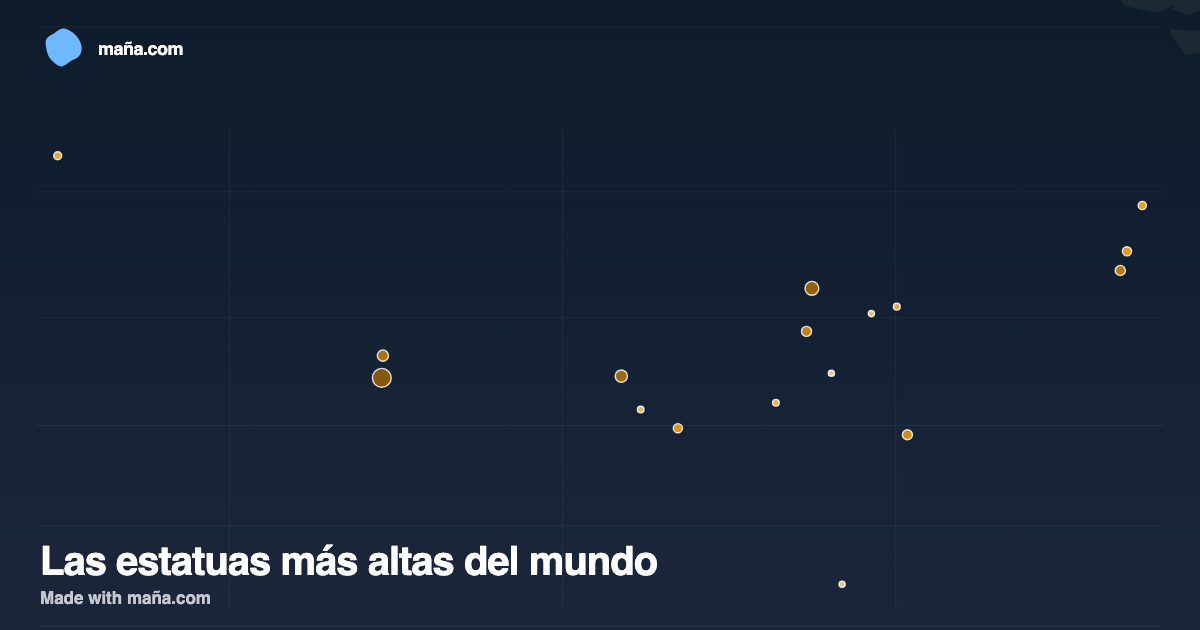
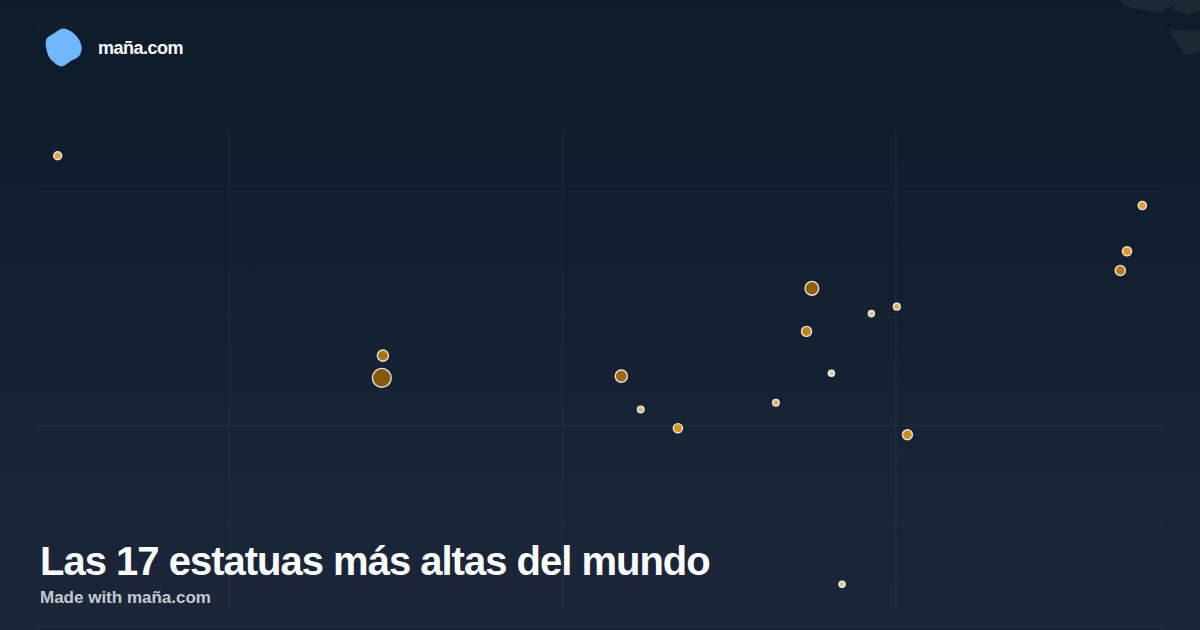
chore: generar landings estaticas y OG cards de mapas

Changed region(s): [[0.0308, 0.8444, 0.6167, 0.9651], [0.0617, 0.0603, 0.1542, 0.0905]]

diff --git a/site/gallery/tallest-statues-world/index.html b/site/gallery/tallest-statues-world/index.html
@@ -3,21 +3,21 @@
 <head>
 <meta charset="utf-8">
 <meta name="viewport" content="width=device-width, initial-scale=1">
-<title>Las estatuas más altas del mundo — Maña Maps</title>
-<meta name="description" content="Las estatuas más altas del mundo: 16 están en Asia y la mayor, la Estatua de la Unidad (182 m), casi duplica a la Estatua de la Libertad.">
+<title>Las 17 estatuas más altas del mundo — Maña Maps</title>
+<meta name="description" content="Las 17 estatuas más altas del mundo: 16 están en Asia y la mayor, la Estatua de la Unidad (182 m), casi duplica a la Estatua de la Libertad.">
 <link rel="canonical" href="https://maña.com/gallery/tallest-statues-world/">
 <meta property="og:type" content="article">
 <meta property="og:url" content="https://maña.com/gallery/tallest-statues-world/">
-<meta property="og:title" content="Las estatuas más altas del mundo">
-<meta property="og:description" content="Las estatuas más altas del mundo: 16 están en Asia y la mayor, la Estatua de la Unidad (182 m), casi duplica a la Estatua de la Libertad.">
+<meta property="og:title" content="Las 17 estatuas más altas del mundo">
+<meta property="og:description" content="Las 17 estatuas más altas del mundo: 16 están en Asia y la mayor, la Estatua de la Unidad (182 m), casi duplica a la Estatua de la Libertad.">
 <meta property="og:image" content="https://maña.com/og-cards/tallest-statues-world.png">
 <meta property="og:image:width" content="1200">
 <meta property="og:image:height" content="630">
 <meta property="og:locale" content="es_ES">
 <meta property="og:site_name" content="Maña Maps">
 <meta name="twitter:card" content="summary_large_image">
-<meta name="twitter:title" content="Las estatuas más altas del mundo">
-<meta name="twitter:description" content="Las estatuas más altas del mundo: 16 están en Asia y la mayor, la Estatua de la Unidad (182 m), casi duplica a la Estatua de la Libertad.">
+<meta name="twitter:title" content="Las 17 estatuas más altas del mundo">
+<meta name="twitter:description" content="Las 17 estatuas más altas del mundo: 16 están en Asia y la mayor, la Estatua de la Unidad (182 m), casi duplica a la Estatua de la Libertad.">
 <meta name="twitter:image" content="https://maña.com/og-cards/tallest-statues-world.png">
 <meta name="robots" content="index, follow">
 <link rel="preconnect" href="https://fonts.googleapis.com">
@@ -25,7 +25,7 @@
 <link rel="stylesheet" href="https://fonts.googleapis.com/css2?family=DM+Sans:wght@400;500;600;700;800;900&display=swap">
 <link rel="stylesheet" href="/css/site-footer.css">
 <style>:root{--overscroll-bg:#fff}@media (prefers-color-scheme: dark){:root{--overscroll-bg:#0b0f14}}</style>
-<script type="application/ld+json">{"@context":"https://schema.org","@type":"Dataset","name":"Las estatuas más altas del mundo","description":"Las estatuas más altas del mundo: 16 están en Asia y la mayor, la Estatua de la Unidad (182 m), casi duplica a la Estatua de la Libertad.","url":"https://maña.com/gallery/tallest-statues-world/","spatialCoverage":{"@type":"Place","name":"Mundo"},"creator":{"@type":"Organization","name":"Maña Maps","url":"https://maña.com"},"source":"Wikipedia — List of tallest statues (consultado 30-10-2026), con datos de Guinness World Records y fichas oficiales de cada monumento. · 2026-10-30","dateModified":"2026-11-05","keywords":["Cultura","Arquitectura","Geografía"]}</script>
+<script type="application/ld+json">{"@context":"https://schema.org","@type":"Dataset","name":"Las 17 estatuas más altas del mundo","description":"Las 17 estatuas más altas del mundo: 16 están en Asia y la mayor, la Estatua de la Unidad (182 m), casi duplica a la Estatua de la Libertad.","url":"https://maña.com/gallery/tallest-statues-world/","spatialCoverage":{"@type":"Place","name":"Mundo"},"creator":{"@type":"Organization","name":"Maña Maps","url":"https://maña.com"},"source":"Wikipedia — List of tallest statues (consultado 30-10-2026), con datos de Guinness World Records y fichas oficiales de cada monumento. · 2026-10-30","dateModified":"2026-11-05","keywords":["Cultura","Arquitectura","Geografía"]}</script>
 <style>
   :root{--sky:#0ea5e9;--ink:#111827;--muted:#6b7280;--line:#e5e7eb}
   *{box-sizing:border-box}
@@ -66,7 +66,7 @@
   @media (prefers-color-scheme: dark){:root{--ink:#f3f4f6;--muted:#9ca3af;--line:#374151}body{background:#0b0f14}.source{background:#111827}.facts{background:#111827}.btn-ghost{background:#111827;color:var(--ink)}}
 </style>
 <link rel="stylesheet" href="/css/site-navbar.css">
-  <link rel="stylesheet" href="/css/public-theme.css">
+<link rel="stylesheet" href="/css/public-theme.css">
 </head>
 <body class="public-landing">
   <header class="site-navbar">
@@ -92,14 +92,14 @@
     </div>
   </header>
   <main class="wrap">
-    <h1>Las estatuas más altas del mundo</h1>
-    <p class="lede">Las estatuas más altas del mundo: 16 están en Asia y la mayor, la Estatua de la Unidad (182 m), casi duplica a la Estatua de la Libertad.</p>
-    <a class="shot" href="/gallery/?slug=tallest-statues-world"><img src="/og-cards/tallest-statues-world.png" alt="Las estatuas más altas del mundo" width="1200" height="630"></a>
+    <h1>Las 17 estatuas más altas del mundo</h1>
+    <p class="lede">Las 17 estatuas más altas del mundo: 16 están en Asia y la mayor, la Estatua de la Unidad (182 m), casi duplica a la Estatua de la Libertad.</p>
+    <a class="shot" href="/gallery/?slug=tallest-statues-world"><img src="/og-cards/tallest-statues-world.png" alt="Las 17 estatuas más altas del mundo" width="1200" height="630"></a>
     <p class="meta">17 elementos · 2026-11-05</p>
     <div class="cta">
       <a class="btn btn-primary" href="/map/" onclick="if(window.trackEvent)window.trackEvent('cta_click',{target:'create_map',source:'static_map'})">Crea tu mapa gratis</a>
       <a class="btn btn-ghost" href="/gallery/?slug=tallest-statues-world" onclick="if(window.trackEvent)window.trackEvent('cta_click',{target:'interactive',source:'static_map'})">Abrir mapa interactivo</a>
-      <a class="btn btn-ghost" href="https://twitter.com/intent/tweet?text=Las%20estatuas%20m%C3%A1s%20altas%20del%20mundo%20%E2%80%94%20v%C3%ADa%20Ma%C3%B1a%20Maps&url=https%3A%2F%2Fma%C3%B1a.com%2Fgallery%2Ftallest-statues-world%2F" target="_blank" rel="noopener" onclick="if(window.trackEvent)window.trackEvent('share',{network:'x',source:'static_map'})">Compartir en X</a>
+      <a class="btn btn-ghost" href="https://twitter.com/intent/tweet?text=Las%2017%20estatuas%20m%C3%A1s%20altas%20del%20mundo%20%E2%80%94%20v%C3%ADa%20Ma%C3%B1a%20Maps&url=https%3A%2F%2Fma%C3%B1a.com%2Fgallery%2Ftallest-statues-world%2F" target="_blank" rel="noopener" onclick="if(window.trackEvent)window.trackEvent('share',{network:'x',source:'static_map'})">Compartir en X</a>
     </div>
     <div class="source"><strong>Fuente de datos:</strong> Wikipedia — List of tallest statues (consultado 30-10-2026), con datos de Guinness World Records y fichas oficiales de cada monumento. · 2026-10-30</div>
     <section class="facts" aria-labelledby="datos-clave">
@@ -137,7 +137,7 @@
           <a href="/changelog/" data-i18n="footer_changelog">Changelog</a>
           <a href="/open/" data-i18n="footer_stats">Estadísticas</a>
           <a href="/map/?tutorial=1">Tutorial</a>
-        <a href="/tasks/" data-i18n="footer_tasks">Tareas</a></div>
+        </div>
       </section>
       <section class="site-footer__group site-footer__group--wide">
         <h2 data-i18n="footer_company">Compañía</h2>

diff --git a/site/gallery/linea-ave-madrid-sevilla-urda/index.html b/site/gallery/linea-ave-madrid-sevilla-urda/index.html
@@ -66,7 +66,7 @@
   @media (prefers-color-scheme: dark){:root{--ink:#f3f4f6;--muted:#9ca3af;--line:#374151}body{background:#0b0f14}.source{background:#111827}.facts{background:#111827}.btn-ghost{background:#111827;color:var(--ink)}}
 </style>
 <link rel="stylesheet" href="/css/site-navbar.css">
-  <link rel="stylesheet" href="/css/public-theme.css">
+<link rel="stylesheet" href="/css/public-theme.css">
 </head>
 <body class="public-landing">
   <header class="site-navbar">
@@ -102,7 +102,7 @@
       <a class="btn btn-ghost" href="https://twitter.com/intent/tweet?text=La%20l%C3%ADnea%20de%20alta%20velocidad%20Madrid-Sevilla%20y%20el%20accidente%20de%20Urda%20%E2%80%94%20v%C3%ADa%20Ma%C3%B1a%20Maps&url=https%3A%2F%2Fma%C3%B1a.com%2Fgallery%2Flinea-ave-madrid-sevilla-urda%2F" target="_blank" rel="noopener" onclick="if(window.trackEvent)window.trackEvent('share',{network:'x',source:'static_map'})">Compartir en X</a>
     </div>
     <div class="source"><strong>Fuente de datos:</strong> OpenStreetMap contributors: relación 1254828 «AVE Madrid - Sevilla» (route=train, service=high_speed), consultada el 29 de octubre de 2026; geometría de la vía y distancia acumulada calculadas sobre la relación. Datos del accidente: Ministerio de Transportes, Gobierno de Castilla-La Mancha y RTVE (28-29 de octubre de 2026). · 2026-10-29</div>
-    <section class="related"><h2>Más mapas</h2><ul><li><a href="/gallery/busiest-ports-world/">Los puertos más transitados del mundo</a></li><li><a href="/gallery/airports-world/">Los aeropuertos más transitados del mundo</a></li><li><a href="/gallery/largest-hydro-dams-world/">Las presas hidroeléctricas más potentes del mundo</a></li><li><a href="/gallery/tallest-statues-world/">Las estatuas más altas del mundo</a></li></ul></section>
+    <section class="related"><h2>Más mapas</h2><ul><li><a href="/gallery/busiest-ports-world/">Los puertos más transitados del mundo</a></li><li><a href="/gallery/airports-world/">Los aeropuertos más transitados del mundo</a></li><li><a href="/gallery/largest-hydro-dams-world/">Las presas hidroeléctricas más potentes del mundo</a></li><li><a href="/gallery/tallest-statues-world/">Las 17 estatuas más altas del mundo</a></li></ul></section>
   </main>
   <footer class="site-footer" aria-label="Pie de página"><div class="site-footer__inner">
     <div class="site-footer__lead">
@@ -129,7 +129,7 @@
           <a href="/changelog/" data-i18n="footer_changelog">Changelog</a>
           <a href="/open/" data-i18n="footer_stats">Estadísticas</a>
           <a href="/map/?tutorial=1">Tutorial</a>
-        <a href="/tasks/" data-i18n="footer_tasks">Tareas</a></div>
+        </div>
       </section>
       <section class="site-footer__group site-footer__group--wide">
         <h2 data-i18n="footer_company">Compañía</h2>

diff --git a/site/gallery/most-visited-museums-world/index.html b/site/gallery/most-visited-museums-world/index.html
@@ -66,7 +66,7 @@
   @media (prefers-color-scheme: dark){:root{--ink:#f3f4f6;--muted:#9ca3af;--line:#374151}body{background:#0b0f14}.source{background:#111827}.facts{background:#111827}.btn-ghost{background:#111827;color:var(--ink)}}
 </style>
 <link rel="stylesheet" href="/css/site-navbar.css">
-  <link rel="stylesheet" href="/css/public-theme.css">
+<link rel="stylesheet" href="/css/public-theme.css">
 </head>
 <body class="public-landing">
   <header class="site-navbar">
@@ -110,7 +110,7 @@
         <div class="facts-col"><h3>Valores más bajos</h3><ol><li><span class="facts-name">Museos Reales de Greenwich</span><span class="facts-value">2.255.753</span></li><li><span class="facts-name">Museo Nacional de Escocia</span><span class="facts-value">2.314.974</span></li><li><span class="facts-name">Galería de Arte de Nueva Gales del Sur</span><span class="facts-value">2.369.339</span></li></ol></div>
       </div>
     </section>
-    <section class="related"><h2>Más mapas</h2><ul><li><a href="/gallery/tourism-arrivals-world/">Países que más reciben turistas internacionales</a></li><li><a href="/gallery/tallest-statues-world/">Las estatuas más altas del mundo</a></li><li><a href="/gallery/bibliotecas-barcelona/">Bibliotecas públicas de Barcelona</a></li><li><a href="/gallery/patrimonio-unesco-por-pais/">Sitios patrimonio de la humanidad UNESCO por país</a></li></ul></section>
+    <section class="related"><h2>Más mapas</h2><ul><li><a href="/gallery/tourism-arrivals-world/">Países que más reciben turistas internacionales</a></li><li><a href="/gallery/tallest-statues-world/">Las 17 estatuas más altas del mundo</a></li><li><a href="/gallery/bibliotecas-barcelona/">Bibliotecas públicas de Barcelona</a></li><li><a href="/gallery/patrimonio-unesco-por-pais/">Sitios patrimonio de la humanidad UNESCO por país</a></li></ul></section>
   </main>
   <footer class="site-footer" aria-label="Pie de página"><div class="site-footer__inner">
     <div class="site-footer__lead">
@@ -137,7 +137,7 @@
           <a href="/changelog/" data-i18n="footer_changelog">Changelog</a>
           <a href="/open/" data-i18n="footer_stats">Estadísticas</a>
           <a href="/map/?tutorial=1">Tutorial</a>
-        <a href="/tasks/" data-i18n="footer_tasks">Tareas</a></div>
+        </div>
       </section>
       <section class="site-footer__group site-footer__group--wide">
         <h2 data-i18n="footer_company">Compañía</h2>

diff --git a/site/gallery/tallest-skyscrapers-world/index.html b/site/gallery/tallest-skyscrapers-world/index.html
@@ -66,7 +66,7 @@
   @media (prefers-color-scheme: dark){:root{--ink:#f3f4f6;--muted:#9ca3af;--line:#374151}body{background:#0b0f14}.source{background:#111827}.facts{background:#111827}.btn-ghost{background:#111827;color:var(--ink)}}
 </style>
 <link rel="stylesheet" href="/css/site-navbar.css">
-  <link rel="stylesheet" href="/css/public-theme.css">
+<link rel="stylesheet" href="/css/public-theme.css">
 </head>
 <body class="public-landing">
   <header class="site-navbar">
@@ -110,7 +110,7 @@
         <div class="facts-col"><h3>Valores más bajos</h3><ol><li><span class="facts-name">Plaza CITIC</span><span class="facts-value">390,2 m</span></li><li><span class="facts-name">23 Marina</span><span class="facts-value">392,4 m</span></li><li><span class="facts-name">Torre China Resources</span><span class="facts-value">392,5 m</span></li></ol></div>
       </div>
     </section>
-    <section class="related"><h2>Más mapas</h2><ul><li><a href="/gallery/tallest-statues-world/">Las estatuas más altas del mundo</a></li><li><a href="/gallery/largest-hydro-dams-world/">Las presas hidroeléctricas más potentes del mundo</a></li><li><a href="/gallery/nuclear-reactors-world/">Los reactores nucleares del mundo</a></li><li><a href="/gallery/alcohol-consumption-world/">Consumo de alcohol per cápita por país</a></li></ul></section>
+    <section class="related"><h2>Más mapas</h2><ul><li><a href="/gallery/tallest-statues-world/">Las 17 estatuas más altas del mundo</a></li><li><a href="/gallery/largest-hydro-dams-world/">Las presas hidroeléctricas más potentes del mundo</a></li><li><a href="/gallery/nuclear-reactors-world/">Los reactores nucleares del mundo</a></li><li><a href="/gallery/alcohol-consumption-world/">Consumo de alcohol per cápita por país</a></li></ul></section>
   </main>
   <footer class="site-footer" aria-label="Pie de página"><div class="site-footer__inner">
     <div class="site-footer__lead">
@@ -137,7 +137,7 @@
           <a href="/changelog/" data-i18n="footer_changelog">Changelog</a>
           <a href="/open/" data-i18n="footer_stats">Estadísticas</a>
           <a href="/map/?tutorial=1">Tutorial</a>
-        <a href="/tasks/" data-i18n="footer_tasks">Tareas</a></div>
+        </div>
       </section>
       <section class="site-footer__group site-footer__group--wide">
         <h2 data-i18n="footer_company">Compañía</h2>

diff --git a/site/gallery/rainy-days-by-city-world/index.html b/site/gallery/rainy-days-by-city-world/index.html
@@ -66,7 +66,7 @@
   @media (prefers-color-scheme: dark){:root{--ink:#f3f4f6;--muted:#9ca3af;--line:#374151}body{background:#0b0f14}.source{background:#111827}.facts{background:#111827}.btn-ghost{background:#111827;color:var(--ink)}}
 </style>
 <link rel="stylesheet" href="/css/site-navbar.css">
-  <link rel="stylesheet" href="/css/public-theme.css">
+<link rel="stylesheet" href="/css/public-theme.css">
 </head>
 <body class="public-landing">
   <header class="site-navbar">
@@ -110,7 +110,7 @@
         <div class="facts-col"><h3>Valores más bajos</h3><ol><li><span class="facts-name">Yeda</span><span class="facts-value">5,4 media 1991–2020</span></li><li><span class="facts-name">El Cairo</span><span class="facts-value">10,9 media 1991–2020</span></li><li><span class="facts-name">Jartum</span><span class="facts-value">12,3 media 1991–2020</span></li></ol></div>
       </div>
     </section>
-    <section class="related"><h2>Más mapas</h2><ul><li><a href="/gallery/co2-per-capita-world/">Emisiones de CO2 per cápita por país</a></li><li><a href="/gallery/major-deserts-world/">Principales desiertos del mundo</a></li><li><a href="/gallery/largest-hydro-dams-world/">Las presas hidroeléctricas más potentes del mundo</a></li><li><a href="/gallery/tallest-statues-world/">Las estatuas más altas del mundo</a></li></ul></section>
+    <section class="related"><h2>Más mapas</h2><ul><li><a href="/gallery/co2-per-capita-world/">Emisiones de CO2 per cápita por país</a></li><li><a href="/gallery/major-deserts-world/">Principales desiertos del mundo</a></li><li><a href="/gallery/largest-hydro-dams-world/">Las presas hidroeléctricas más potentes del mundo</a></li><li><a href="/gallery/tallest-statues-world/">Las 17 estatuas más altas del mundo</a></li></ul></section>
   </main>
   <footer class="site-footer" aria-label="Pie de página"><div class="site-footer__inner">
     <div class="site-footer__lead">
@@ -137,7 +137,7 @@
           <a href="/changelog/" data-i18n="footer_changelog">Changelog</a>
           <a href="/open/" data-i18n="footer_stats">Estadísticas</a>
           <a href="/map/?tutorial=1">Tutorial</a>
-        <a href="/tasks/" data-i18n="footer_tasks">Tareas</a></div>
+        </div>
       </section>
       <section class="site-footer__group site-footer__group--wide">
         <h2 data-i18n="footer_company">Compañía</h2>

diff --git a/site/gallery/olympic-medals-world/index.html b/site/gallery/olympic-medals-world/index.html
@@ -66,7 +66,7 @@
   @media (prefers-color-scheme: dark){:root{--ink:#f3f4f6;--muted:#9ca3af;--line:#374151}body{background:#0b0f14}.source{background:#111827}.facts{background:#111827}.btn-ghost{background:#111827;color:var(--ink)}}
 </style>
 <link rel="stylesheet" href="/css/site-navbar.css">
-  <link rel="stylesheet" href="/css/public-theme.css">
+<link rel="stylesheet" href="/css/public-theme.css">
 </head>
 <body class="public-landing">
   <header class="site-navbar">
@@ -110,7 +110,7 @@
         <div class="facts-col"><h3>Valores más bajos</h3><ol><li><span class="facts-name">Andorra</span><span class="facts-value">0</span></li><li><span class="facts-name">Angola</span><span class="facts-value">0</span></li><li><span class="facts-name">Antigua y Barbuda</span><span class="facts-value">0</span></li></ol></div>
       </div>
     </section>
-    <section class="related"><h2>Más mapas</h2><ul><li><a href="/gallery/largest-hydro-dams-world/">Las presas hidroeléctricas más potentes del mundo</a></li><li><a href="/gallery/tallest-statues-world/">Las estatuas más altas del mundo</a></li><li><a href="/gallery/nuclear-reactors-world/">Los reactores nucleares del mundo</a></li><li><a href="/gallery/alcohol-consumption-world/">Consumo de alcohol per cápita por país</a></li></ul></section>
+    <section class="related"><h2>Más mapas</h2><ul><li><a href="/gallery/largest-hydro-dams-world/">Las presas hidroeléctricas más potentes del mundo</a></li><li><a href="/gallery/tallest-statues-world/">Las 17 estatuas más altas del mundo</a></li><li><a href="/gallery/nuclear-reactors-world/">Los reactores nucleares del mundo</a></li><li><a href="/gallery/alcohol-consumption-world/">Consumo de alcohol per cápita por país</a></li></ul></section>
   </main>
   <footer class="site-footer" aria-label="Pie de página"><div class="site-footer__inner">
     <div class="site-footer__lead">
@@ -137,7 +137,7 @@
           <a href="/changelog/" data-i18n="footer_changelog">Changelog</a>
           <a href="/open/" data-i18n="footer_stats">Estadísticas</a>
           <a href="/map/?tutorial=1">Tutorial</a>
-        <a href="/tasks/" data-i18n="footer_tasks">Tareas</a></div>
+        </div>
       </section>
       <section class="site-footer__group site-footer__group--wide">
         <h2 data-i18n="footer_company">Compañía</h2>

diff --git a/site/gallery/bibliotecas-barcelona/index.html b/site/gallery/bibliotecas-barcelona/index.html
@@ -66,7 +66,7 @@
   @media (prefers-color-scheme: dark){:root{--ink:#f3f4f6;--muted:#9ca3af;--line:#374151}body{background:#0b0f14}.source{background:#111827}.facts{background:#111827}.btn-ghost{background:#111827;color:var(--ink)}}
 </style>
 <link rel="stylesheet" href="/css/site-navbar.css">
-  <link rel="stylesheet" href="/css/public-theme.css">
+<link rel="stylesheet" href="/css/public-theme.css">
 </head>
 <body class="public-landing">
   <header class="site-navbar">
@@ -110,7 +110,7 @@
         <div class="facts-col"><h3>Valores más bajos</h3><ol><li><span class="facts-name">Les Corts</span><span class="facts-value">2</span></li><li><span class="facts-name">Gràcia</span><span class="facts-value">3</span></li><li><span class="facts-name">Sants-Montjuïc</span><span class="facts-value">3</span></li></ol></div>
       </div>
     </section>
-    <section class="related"><h2>Más mapas</h2><ul><li><a href="/gallery/literacy-rate-world/">Alfabetización mundial por país</a></li><li><a href="/gallery/tallest-statues-world/">Las estatuas más altas del mundo</a></li><li><a href="/gallery/most-visited-museums-world/">Los museos más visitados del mundo</a></li><li><a href="/gallery/patrimonio-unesco-por-pais/">Sitios patrimonio de la humanidad UNESCO por país</a></li></ul></section>
+    <section class="related"><h2>Más mapas</h2><ul><li><a href="/gallery/literacy-rate-world/">Alfabetización mundial por país</a></li><li><a href="/gallery/tallest-statues-world/">Las 17 estatuas más altas del mundo</a></li><li><a href="/gallery/most-visited-museums-world/">Los museos más visitados del mundo</a></li><li><a href="/gallery/patrimonio-unesco-por-pais/">Sitios patrimonio de la humanidad UNESCO por país</a></li></ul></section>
   </main>
   <footer class="site-footer" aria-label="Pie de página"><div class="site-footer__inner">
     <div class="site-footer__lead">
@@ -137,7 +137,7 @@
           <a href="/changelog/" data-i18n="footer_changelog">Changelog</a>
           <a href="/open/" data-i18n="footer_stats">Estadísticas</a>
           <a href="/map/?tutorial=1">Tutorial</a>
-        <a href="/tasks/" data-i18n="footer_tasks">Tareas</a></div>
+        </div>
       </section>
       <section class="site-footer__group site-footer__group--wide">
         <h2 data-i18n="footer_company">Compañía</h2>

diff --git a/site/gallery/patrimonio-unesco-por-pais/index.html b/site/gallery/patrimonio-unesco-por-pais/index.html
@@ -66,7 +66,7 @@
   @media (prefers-color-scheme: dark){:root{--ink:#f3f4f6;--muted:#9ca3af;--line:#374151}body{background:#0b0f14}.source{background:#111827}.facts{background:#111827}.btn-ghost{background:#111827;color:var(--ink)}}
 </style>
 <link rel="stylesheet" href="/css/site-navbar.css">
-  <link rel="stylesheet" href="/css/public-theme.css">
+<link rel="stylesheet" href="/css/public-theme.css">
 </head>
 <body class="public-landing">
   <header class="site-navbar">
@@ -110,7 +110,7 @@
         <div class="facts-col"><h3>Valores más bajos</h3><ol><li><span class="facts-name">Bahamas</span><span class="facts-value">0</span></li><li><span class="facts-name">Brunéi</span><span class="facts-value">0</span></li><li><span class="facts-name">Burundi</span><span class="facts-value">0</span></li></ol></div>
       </div>
     </section>
-    <section class="related"><h2>Más mapas</h2><ul><li><a href="/gallery/tallest-statues-world/">Las estatuas más altas del mundo</a></li><li><a href="/gallery/most-visited-museums-world/">Los museos más visitados del mundo</a></li><li><a href="/gallery/bibliotecas-barcelona/">Bibliotecas públicas de Barcelona</a></li><li><a href="/gallery/largest-hydro-dams-world/">Las presas hidroeléctricas más potentes del mundo</a></li></ul></section>
+    <section class="related"><h2>Más mapas</h2><ul><li><a href="/gallery/tallest-statues-world/">Las 17 estatuas más altas del mundo</a></li><li><a href="/gallery/most-visited-museums-world/">Los museos más visitados del mundo</a></li><li><a href="/gallery/bibliotecas-barcelona/">Bibliotecas públicas de Barcelona</a></li><li><a href="/gallery/largest-hydro-dams-world/">Las presas hidroeléctricas más potentes del mundo</a></li></ul></section>
   </main>
   <footer class="site-footer" aria-label="Pie de página"><div class="site-footer__inner">
     <div class="site-footer__lead">
@@ -137,7 +137,7 @@
           <a href="/changelog/" data-i18n="footer_changelog">Changelog</a>
           <a href="/open/" data-i18n="footer_stats">Estadísticas</a>
           <a href="/map/?tutorial=1">Tutorial</a>
-        <a href="/tasks/" data-i18n="footer_tasks">Tareas</a></div>
+        </div>
       </section>
       <section class="site-footer__group site-footer__group--wide">
         <h2 data-i18n="footer_company">Compañía</h2>

diff --git a/site/gallery/active-volcanoes-world/index.html b/site/gallery/active-volcanoes-world/index.html
@@ -66,7 +66,7 @@
   @media (prefers-color-scheme: dark){:root{--ink:#f3f4f6;--muted:#9ca3af;--line:#374151}body{background:#0b0f14}.source{background:#111827}.facts{background:#111827}.btn-ghost{background:#111827;color:var(--ink)}}
 </style>
 <link rel="stylesheet" href="/css/site-navbar.css">
-  <link rel="stylesheet" href="/css/public-theme.css">
+<link rel="stylesheet" href="/css/public-theme.css">
 </head>
 <body class="public-landing">
   <header class="site-navbar">
@@ -137,7 +137,7 @@
           <a href="/changelog/" data-i18n="footer_changelog">Changelog</a>
           <a href="/open/" data-i18n="footer_stats">Estadísticas</a>
           <a href="/map/?tutorial=1">Tutorial</a>
-        <a href="/tasks/" data-i18n="footer_tasks">Tareas</a></div>
+        </div>
       </section>
       <section class="site-footer__group site-footer__group--wide">
         <h2 data-i18n="footer_company">Compañía</h2>

diff --git a/site/gallery/air-pollution-pm25-world/index.html b/site/gallery/air-pollution-pm25-world/index.html
@@ -66,7 +66,7 @@
   @media (prefers-color-scheme: dark){:root{--ink:#f3f4f6;--muted:#9ca3af;--line:#374151}body{background:#0b0f14}.source{background:#111827}.facts{background:#111827}.btn-ghost{background:#111827;color:var(--ink)}}
 </style>
 <link rel="stylesheet" href="/css/site-navbar.css">
-  <link rel="stylesheet" href="/css/public-theme.css">
+<link rel="stylesheet" href="/css/public-theme.css">
 </head>
 <body class="public-landing">
   <header class="site-navbar">
@@ -137,7 +137,7 @@
           <a href="/changelog/" data-i18n="footer_changelog">Changelog</a>
           <a href="/open/" data-i18n="footer_stats">Estadísticas</a>
           <a href="/map/?tutorial=1">Tutorial</a>
-        <a href="/tasks/" data-i18n="footer_tasks">Tareas</a></div>
+        </div>
       </section>
       <section class="site-footer__group site-footer__group--wide">
         <h2 data-i18n="footer_company">Compañía</h2>

diff --git a/site/gallery/airports-world/index.html b/site/gallery/airports-world/index.html
@@ -66,7 +66,7 @@
   @media (prefers-color-scheme: dark){:root{--ink:#f3f4f6;--muted:#9ca3af;--line:#374151}body{background:#0b0f14}.source{background:#111827}.facts{background:#111827}.btn-ghost{background:#111827;color:var(--ink)}}
 </style>
 <link rel="stylesheet" href="/css/site-navbar.css">
-  <link rel="stylesheet" href="/css/public-theme.css">
+<link rel="stylesheet" href="/css/public-theme.css">
 </head>
 <body class="public-landing">
   <header class="site-navbar">
@@ -137,7 +137,7 @@
           <a href="/changelog/" data-i18n="footer_changelog">Changelog</a>
           <a href="/open/" data-i18n="footer_stats">Estadísticas</a>
           <a href="/map/?tutorial=1">Tutorial</a>
-        <a href="/tasks/" data-i18n="footer_tasks">Tareas</a></div>
+        </div>
       </section>
       <section class="site-footer__group site-footer__group--wide">
         <h2 data-i18n="footer_company">Compañía</h2>

diff --git a/site/gallery/alcohol-consumption-world/index.html b/site/gallery/alcohol-consumption-world/index.html
@@ -66,7 +66,7 @@
   @media (prefers-color-scheme: dark){:root{--ink:#f3f4f6;--muted:#9ca3af;--line:#374151}body{background:#0b0f14}.source{background:#111827}.facts{background:#111827}.btn-ghost{background:#111827;color:var(--ink)}}
 </style>
 <link rel="stylesheet" href="/css/site-navbar.css">
-  <link rel="stylesheet" href="/css/public-theme.css">
+<link rel="stylesheet" href="/css/public-theme.css">
 </head>
 <body class="public-landing">
   <header class="site-navbar">
@@ -137,7 +137,7 @@
           <a href="/changelog/" data-i18n="footer_changelog">Changelog</a>
           <a href="/open/" data-i18n="footer_stats">Estadísticas</a>
           <a href="/map/?tutorial=1">Tutorial</a>
-        <a href="/tasks/" data-i18n="footer_tasks">Tareas</a></div>
+        </div>
       </section>
       <section class="site-footer__group site-footer__group--wide">
         <h2 data-i18n="footer_company">Compañía</h2>
